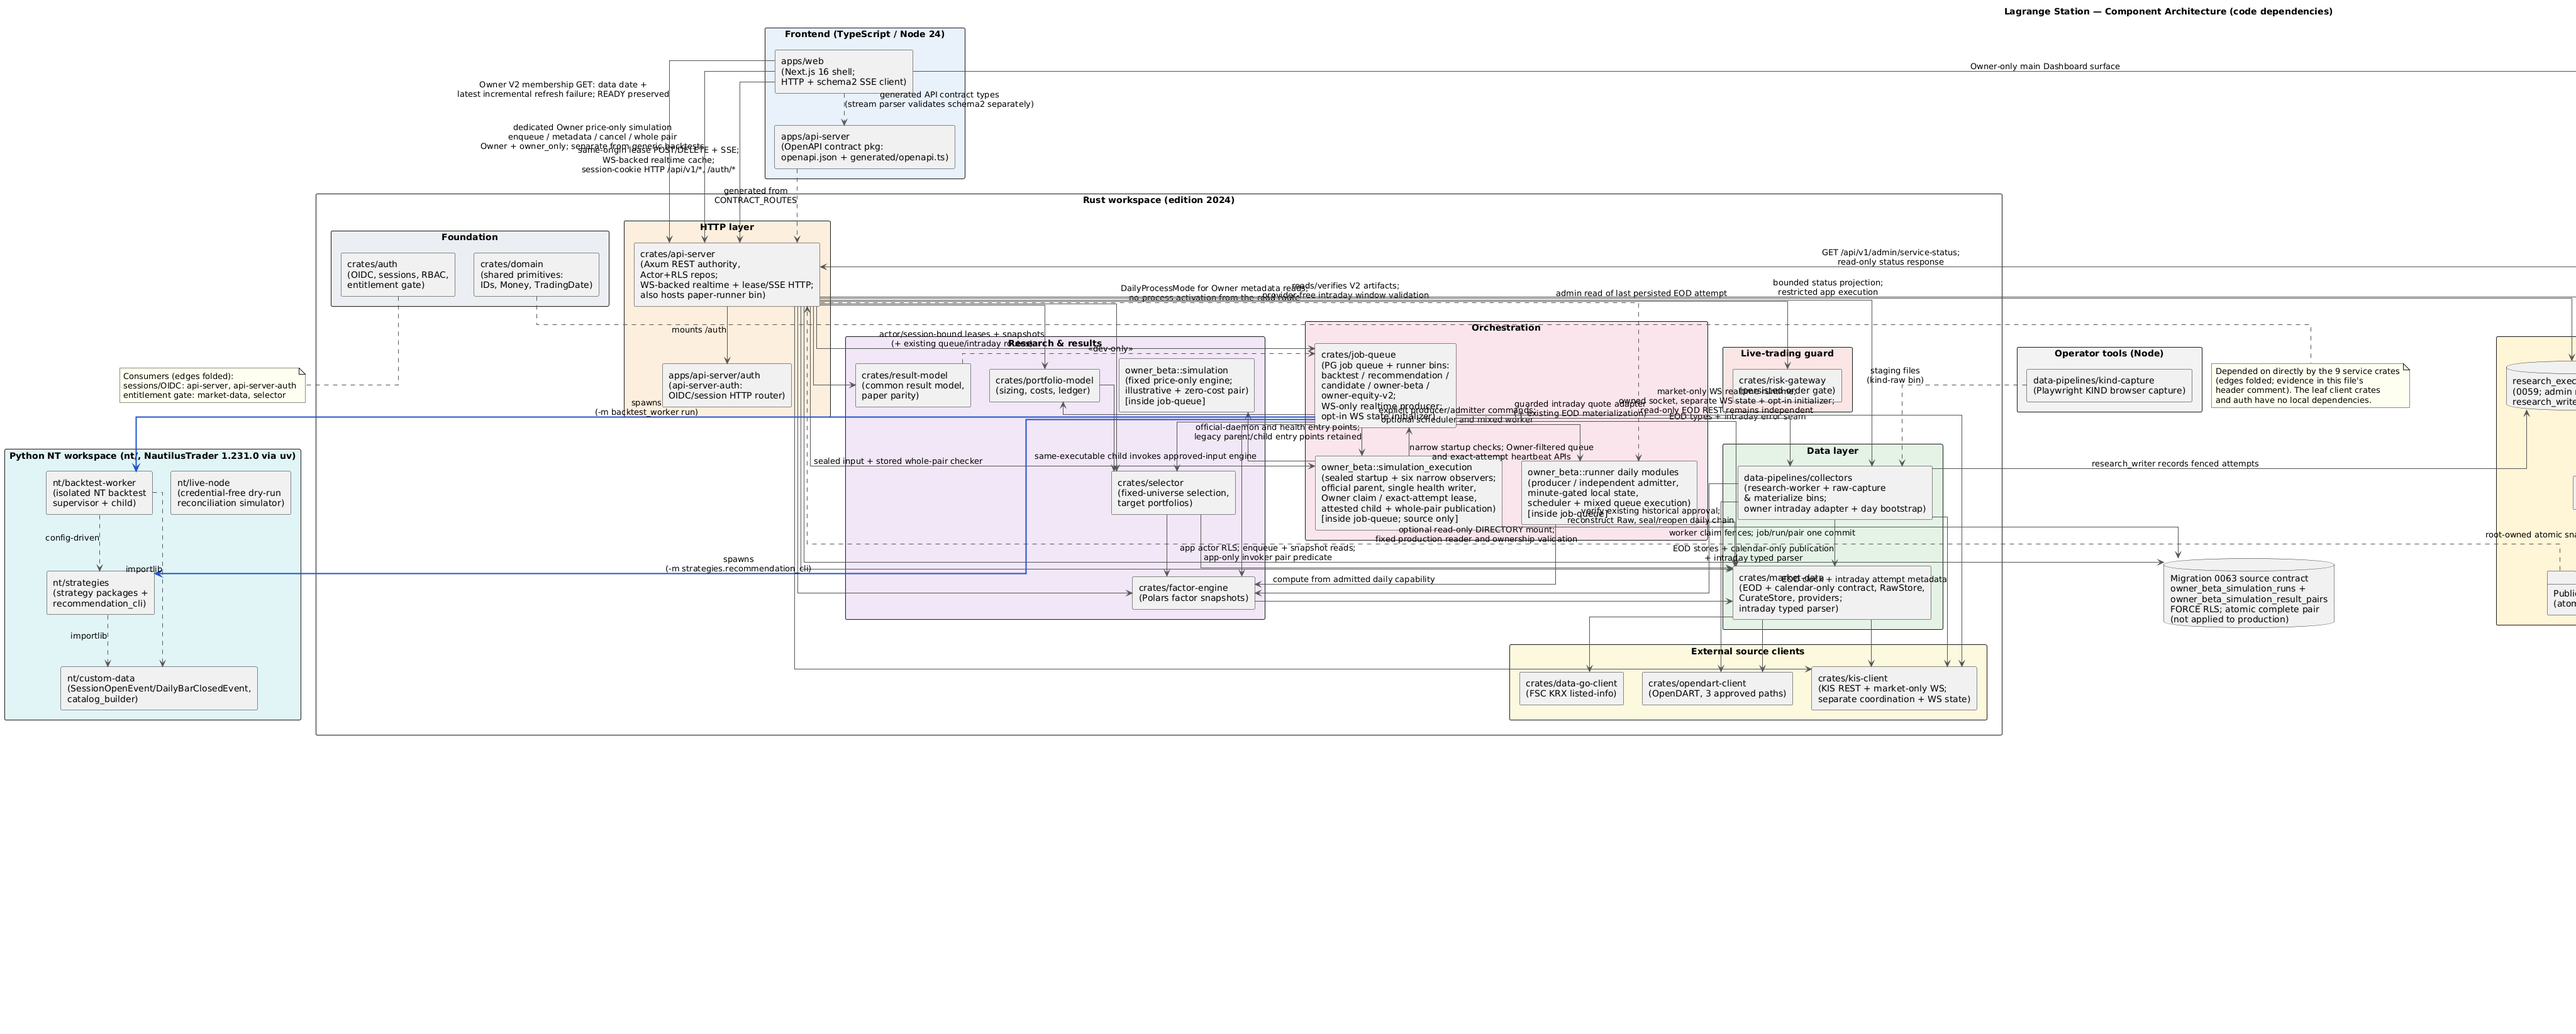
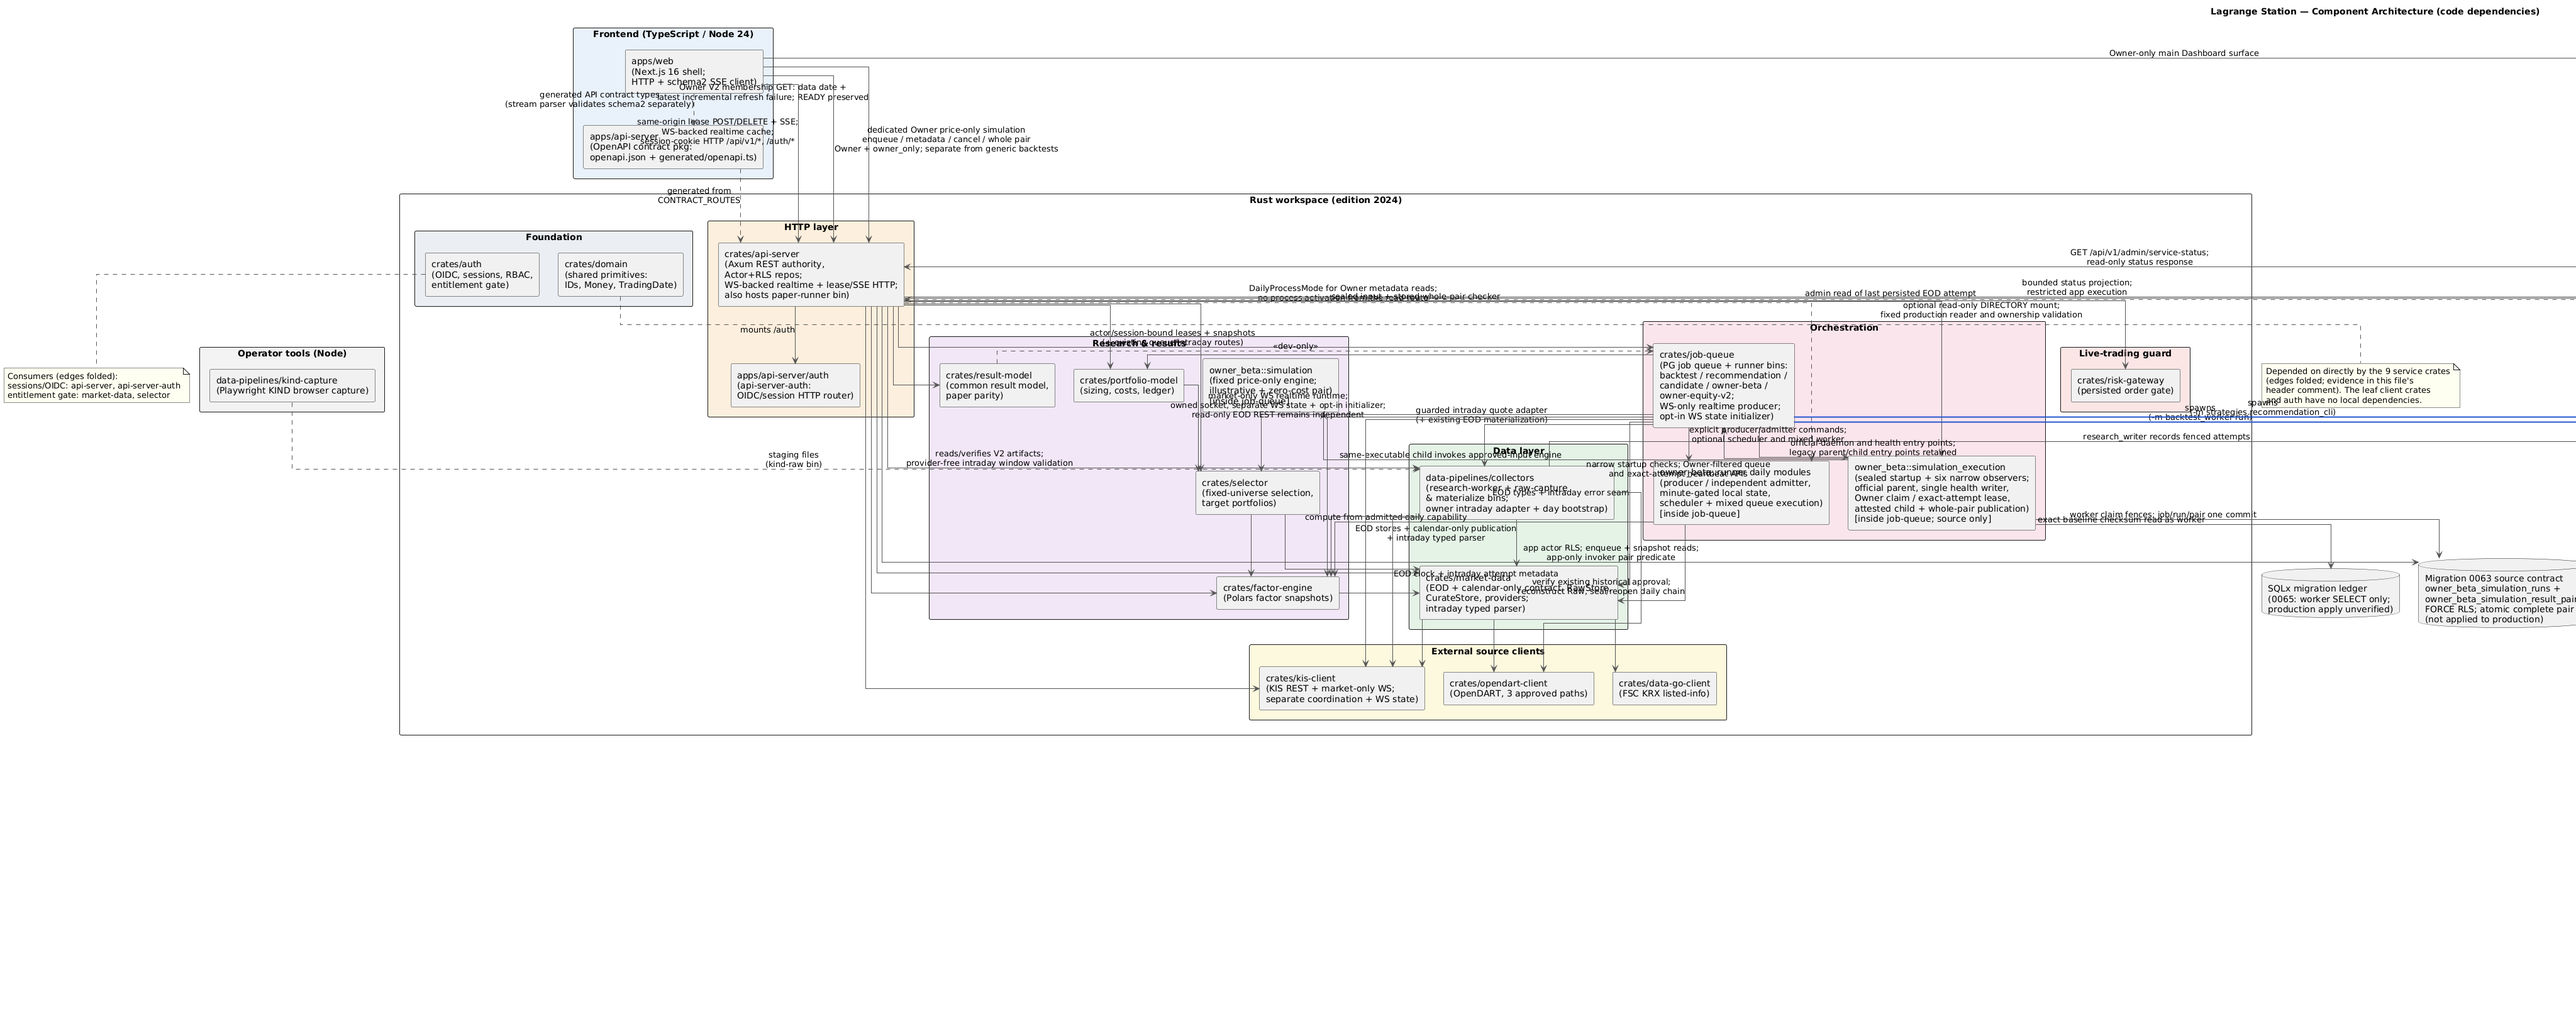
Grant simulation worker read-only migration ledger access

diff --git a/crates/job-queue/src/owner_beta/simulation_execution/process_migrations/tests.rs b/crates/job-queue/src/owner_beta/simulation_execution/process_migrations/tests.rs
@@ -21,6 +21,15 @@ async fn r4_migration_ledger_pg_projection() {
         .connect(&db.role_url("worker"))
         .await
         .expect("connect directly as worker to disposable PostgreSQL");
+    let worker_ledger_access: (bool, bool, bool) = sqlx::query_as(
+        "SELECT pg_catalog.has_table_privilege(current_user, 'public._sqlx_migrations', 'SELECT'), \
+                pg_catalog.has_table_privilege(current_user, 'public._sqlx_migrations', 'INSERT'), \
+                pg_catalog.has_table_privilege(current_user, 'public._sqlx_migrations', 'UPDATE')",
+    )
+    .fetch_one(&pool)
+    .await
+    .expect("read worker migration ledger privileges");
+    assert_eq!(worker_ledger_access, (true, false, false));
     let worker_oid: i64 = sqlx::query_scalar(
         "SELECT oid::pg_catalog.int8 FROM pg_catalog.pg_roles WHERE rolname = 'worker'",
     )
@@ -621,11 +630,11 @@ fn test_context_evidence() -> ContextEvidence {
 #[test]
 fn accepted_baseline_is_finite_raw_and_fingerprint_pinned() {
     let baseline = validate_embedded_baseline().unwrap();
-    assert_eq!(BASELINE.len(), 64);
+    assert_eq!(BASELINE.len(), 65);
     assert_eq!(BASELINE[0].version, 1);
-    assert_eq!(BASELINE[63].version, 64);
+    assert_eq!(BASELINE[64].version, 65);
     assert_eq!(baseline.fingerprint_text, EXPECTED_FINGERPRINT);
-    assert_eq!(POLICY_ID, "r4-simulation-ledger-baseline-64-v1");
+    assert_eq!(POLICY_ID, "r4-simulation-ledger-baseline-65-v1");
     assert!(
         BASELINE
             .iter()
@@ -823,7 +832,7 @@ fn successful_observation_has_exact_order_and_retains_checked_identity() {
     assert_eq!(observation.public_schema_oid(), TEST_SCHEMA_OID);
     assert_eq!(observation.migration_owner_oid(), TEST_OWNER_OID);
     assert_eq!(observation.ledger_oid(), TEST_LEDGER_OID);
-    assert_eq!(observation.ledger_row_count(), 64);
+    assert_eq!(observation.ledger_row_count(), 65);
     assert_eq!(
         observation.ordered_ledger_digest(),
         expected_ledger_digest()
@@ -837,7 +846,7 @@ fn expected_ledger_digest() -> String {
     digest.update([0u8]);
     digest.update(baseline.fingerprint);
     digest.update(TEST_LEDGER_OID.to_be_bytes());
-    digest.update(64u64.to_be_bytes());
+    digest.update(65u64.to_be_bytes());
     for entry in BASELINE.iter() {
         let (_, checksum) = validate_expected_entry(entry, entry.bytes).unwrap();
         digest.update(entry.version.to_be_bytes());
@@ -1632,7 +1641,7 @@ fn ledger_requires_exact_order_success_tableoid_and_raw_checksum() {
         baseline,
     )
     .unwrap();
-    assert_eq!(valid.row_count, 64);
+    assert_eq!(valid.row_count, 65);
     assert!(valid.digest_text.starts_with("sha256:"));
 
     let mut missing = ledger_rows();
@@ -1719,9 +1728,9 @@ fn ledger_requires_exact_order_success_tableoid_and_raw_checksum() {
 }
 
 #[test]
-fn ledger_unknown_65_is_distinguished_from_duplicate_65() {
+fn ledger_unknown_66_is_distinguished_from_duplicate_row() {
     let mut unknown = ledger_rows();
-    unknown.push(ledger_row_with(65, from_hex(BASELINE[63].sha384_hex)));
+    unknown.push(ledger_row_with(66, from_hex(BASELINE[64].sha384_hex)));
     assert!(matches!(
         validate_ledger(
             decoded_ledger_rows(unknown),
@@ -1744,7 +1753,7 @@ fn ledger_unknown_65_is_distinguished_from_duplicate_65() {
 
     let mut fake = FakeTransport::new(successful_steps());
     let mut query_rows = ledger_rows();
-    query_rows.push(ledger_row_with(65, from_hex(BASELINE[63].sha384_hex)));
+    query_rows.push(ledger_row_with(66, from_hex(BASELINE[64].sha384_hex)));
     fake.set_query_rows(Statement::Ledger, query_rows);
     let canceled = AtomicBool::new(false);
     assert!(matches!(

diff --git a/crates/job-queue/src/owner_beta/simulation_execution/process_migrations.rs b/crates/job-queue/src/owner_beta/simulation_execution/process_migrations.rs
@@ -13,12 +13,12 @@ use sqlx::{PgConnection, PgPool, Postgres, Row, pool::PoolConnection, postgres::
 
 use super::SimulationProcessConfig;
 
-const POLICY_ID: &str = "r4-simulation-ledger-baseline-64-v1";
+const POLICY_ID: &str = "r4-simulation-ledger-baseline-65-v1";
 const READER_FLOOR: u64 = 63;
-const REQUIRED_EXTENSION: u64 = 64;
-const EXPECTED_ROW_COUNT: usize = 64;
+const REQUIRED_EXTENSION: u64 = 65;
+const EXPECTED_ROW_COUNT: usize = 65;
 const EXPECTED_FINGERPRINT: &str =
-    "sha256:a4886f4c56091690702790d1defacf3b1a388c718a94c026822e02a4b580d91f";
+    "sha256:2364eb5a8bd35632bea4c09cd4798c7d6baaf2c1661c30b085e0e0486b5a5e9d";
 const WORKER_ROLE: &str = "worker";
 const MIGRATION_OWNER_ROLE: &str = "migration_owner";
 const PUBLIC_SCHEMA: &str = "public";
@@ -32,8 +32,8 @@ const COLUMN_FETCH_LIMIT: usize = 7;
 const PRIMARY_KEY_FETCH_LIMIT: usize = 2;
 const RAW_ACL_FETCH_LIMIT: usize = 65;
 const RAW_ACL_ACCEPT_LIMIT: usize = 64;
-const LEDGER_FETCH_LIMIT: usize = 65;
-const LEDGER_ACCEPT_LIMIT: usize = 64;
+const LEDGER_FETCH_LIMIT: usize = 66;
+const LEDGER_ACCEPT_LIMIT: usize = 65;
 
 const BEGIN_SQL: &str = "BEGIN ISOLATION LEVEL REPEATABLE READ READ ONLY";
 const SETUP_SQL: &str = "\
@@ -401,7 +401,7 @@ SELECT ledger.tableoid::pg_catalog.int8 AS ledger_oid,
        END AS checksum
   FROM public._sqlx_migrations AS ledger
  ORDER BY ledger.version
- LIMIT 65
+ LIMIT 66
 "#;
 
 struct ExpectedMigration {
@@ -973,6 +973,16 @@ const BASELINE: [ExpectedMigration; EXPECTED_ROW_COUNT] = [
[2 lines of base64/hex data omitted]
         bytes: include_bytes!("../../../../../migrations/0064_owner_beta_simulation_v2.up.sql"),
+    },
+    ExpectedMigration {
+        version: 65,
+        path: "migrations/0065_owner_beta_simulation_ledger_read.up.sql",
+        byte_len: 213,
[2 lines of base64/hex data omitted]
+        bytes: include_bytes!(
+            "../../../../../migrations/0065_owner_beta_simulation_ledger_read.up.sql"
+        ),
     },
 ];
 

diff --git a/docs/ROADMAP.md b/docs/ROADMAP.md
@@ -12,7 +12,7 @@
 | 현재 실행 우선순위 | R4-06 DOING — 검증 후보 `9327802`의 전체 hosted CI `40576506250`(필수 집계 포함)와 동일 SHA Research smoke `40577203797`가 성공했다. 격리 검증 이후 실제 입력·권리·운영·Owner 인수는 남아 있다. |
 | 상세 실행 계획 | [R4 잔여 통합 계획](superpowers/plans/2026-10-27-r4-remaining-integration.md)이 이후 실행 순서다. [기존 구현 계획](superpowers/plans/2026-10-26-r4-baseline-expansion-implementation.md)은 계약·증거 이력을 보존한다. |
 | main 통합 | `1286e73`과 R2/R3·R4 인계 `7a396d7`의 병합 `bb906d3` 및 원격 main 일치를 확인했다. 원래 CI39976478432 attempt1은 Web E2E 단일 실패로 FAILURE, smoke39976478535 attempt1은 SUCCESS. G1 진단 변경을 수용했고 후속 후보에서 assertion 원인을 회수한다. [병합 기록](reviews/2026-10-24-main-r2-r4-integration.md)·[후속 검증](reviews/2026-10-24-r4-execution.md). |
-| 다음 착수 항목 | trigger·ACL 실제 PG 회귀는 통과했다. routine·RLS·configured rights 회귀를 원장 권한 결정과 독립적으로 실행한다. migration ledger는 worker `SELECT` 계약과 G0의 새 grant 금지가 충돌해 해당 권한 또는 검증 설계 결정을 기다린다. 실제 시뮬레이션 재고·권리·설치·drain·rollback·백업/복원 및 Owner 사용은 별도 G3 인수로 진행한다. |
+| 다음 착수 항목 | trigger·ACL 실제 PG 회귀는 통과했다. Owner가 원장에 한정한 worker `SELECT`를 승인해 migration 0065와 원장 기준선65를 작성했다. routine·RLS·configured rights 및 원장 회귀를 새 후보의 실제 PostgreSQL에서 검증한다. 실제 시뮬레이션 재고·권리·설치·drain·rollback·백업/복원 및 Owner 사용은 별도 G3 인수로 진행한다. |
 | 진행 상태 | R1-01~09 및 전체 R1 DONE. C3 `862fa95`의 CI·smoke, 실제 12개 이미지·V2 manifest, 기존 Owner V2 복귀 검증 완료. main `b0a2579`의 기존 CI·smoke도 최종 성공 회수 |
 | 판단이 필요한 항목 | R2 U2 계약은 2026-10-14 채택됨. G4와 기존 배포·백업/복원 인수는 보존한다. 2026-10-23 Owner가 비긴급 검증의 후속 이슈화를 채택했다. Wave166 정정으로 D-06 및005930 가격 충돌 조사는 유예 유지하며 독립 개발을 계속한다. D-07도 유예이며 입력 승인·Daily 활성화·실제3거래일·R2/R3 FINAL은 미완료다. R4-01의 `owner-beta-price-only-simulation-v1-draft-1` 제안/설명 뒤 Owner가 “진행해”라고 지시했고, 후속 지시로 기록 저장 후 다른 세션에서 착수한다. 원본·후속 결정은 인계에 고정했다. |
 
@@ -2827,3 +2827,4 @@ Wave134 검증(2026-10-21 KST): 청약일 보정의37개 재구성 테스트(신
 - 2026-10-28 R4-06: `3db753f` CI `40631147952`에서 format·Python·policy·Clippy·Web은 SUCCESS, trigger 실제 PG 회귀는 `ForwardTriggers: Database`로 다시 FAILED했다. PostgreSQL 공식 `pg_trigger` 열 목록에 쿼리의 `tgnattr`이 없음을 확인해 `tgattr` 배열 cardinality로 `update_attribute_count`를 계산하도록 보정했다. 이 실패를 포함한 이전 CI, 뒤에 대기한 `cd9ba21` CI `40632398579`, 이전 SHA smoke `40631187815`에 취소를 요청했다. 완료된 항목과 미완료 항목을 구분하며, 새 수정본의 PG·전체 CI·동일 SHA smoke와 G3/Owner 인수는 OPEN이다.
 - 2026-10-28 R4-06: `56f4167` CI `40632582660`에서 format·Python은 SUCCESS, Clippy는 새 feature-gated PG 회귀 여섯 곳이 같은 test helper 파일을 각각 모듈로 읽어 `clippy::duplicate_mod`로 FAILED했다. 공통 helper를 부모 모듈에서 한 번만 읽도록 보정하고 Rustfmt·diff 공백 검사를 통과했다. 같은 CI의 PG·정책·R4 빌드 등과 smoke `40632592636`은 이 기록 시점에 진행 중이다. 보정의 hosted 인수와 실제 입력·운영·Owner 인수는 OPEN이다.
 - 2026-10-28 R4-06: `56f4167` CI의 실제 PostgreSQL에서 trigger 13 projection과 ACL은 PASS, migration ledger의 `Ledger` 읽기는 FAILED했다. 현재 소스는 worker의 원장 SELECT를 요구하나 기존 migration에는 그 grant가 없고, 채택된 G0에는 새 grant 금지가 명시돼 있다. 정확한 원장 읽기 권한 추가 또는 원장 검증 설계 변경의 결정을 요청했다. 권한 변경은 아직 후보로만 준비하고 원격에 반영하지 않았다. 독립적인 routine·RLS·configured rights를 먼저 실행하도록 DB harness 순서를 조정했다. Clippy 중복 모듈 보정본 `d3a51ef`의 대기 CI와 그 smoke는 이 권한 충돌을 해결하지 못하므로 취소를 요청했다. 실제 입력·운영·Owner 인수는 OPEN이다.
+- 2026-10-28 R4-06: Owner가 기존 G0의 새 grant 금지에 대해 `public._sqlx_migrations`의 worker 읽기 전용 `SELECT`만 명시적으로 허용했다. migration 0065의 UP/DOWN에 GRANT/REVOKE를 한정하고, 소스 원장 기준선·SHA-256/SHA-384·65행 fingerprint·66행 탐지 한도와 실제 worker의 SELECT=true/INSERT=false/UPDATE=false 검증을 갱신했다. 이전 64행 fingerprint를 같은 정적 계산으로 재현한 뒤 새 값으로 확장했다. 이 변경의 실제 DB 적용·회귀는 아직 NOT RUN이며 실제 입력·운영·Owner 인수는 계속 OPEN이다.

diff --git a/docs/superpowers/plans/2026-10-27-r4-integration-interface.md b/docs/superpowers/plans/2026-10-27-r4-integration-interface.md
@@ -6,6 +6,14 @@ This closes the finite SOURCE dispatch interface for WP-5C3E and WP-5C4 under th
 It authorizes SOURCE implementation, not execution, installation, new provider access or Owner acceptance.
 Existing C0/D0/D2A-K evidence is reused; original reports and controls remain immutable.
 
+**2026-10-28 Owner exception:** Actual SQLx/PostgreSQL validation showed the
+worker could not read the migration ledger, while the adopted startup observer
+requires exact ledger bytes and its own ACL proof. The Owner approved only
+`GRANT SELECT ON TABLE public._sqlx_migrations TO worker`. Migration 0065
+provides that read permission and its down migration revokes it. The baseline
+now requires migrations 1–65; the reader schema floor remains 63. No write,
+administrator, migration-owner, or provider permission follows from this change.
+
 ## Shared executable and launcher ABI
 
 | Boundary | Adopted contract | Evidence / owner |
@@ -15,7 +23,7 @@ Existing C0/D0/D2A-K evidence is reused; original reports and controls remain im
 | Health | Existing `--health` with exactly the same three pin options. Health performs only checked config and process health reads; never DB, writer, startup, claim or restart. Exit0 healthy, invalid arguments2, unsupported7, rejected8 remain. | Binary health implementation; C4 Docker healthcheck uses this argv. |
 | Official exits | New Official mode: normal fully confirmed drain0; parser2; unsupported7; startup/parent/cleanup/completion rejection9 with fixed value-free diagnostic. Signal alone is not proof of clean exit. Legacy Once/Daemon/Child exit behavior unchanged. | E implements; C4 requires clean process exit plus independent settlement. |
 | Fixed paths / identity | Retain checked config's exact container paths and worker-id; host historical_root is only the RO bind source. User10001:10001; health records directory existing required tmpfs/0700 policy. No arbitrary writable input or test-root production switch. | process_config.rs, process_read/write.rs; C1/C2. |
-| DB credentials | Official production uses existing component DB options with db_worker and password file. No direct URL, plaintext password, administrator/migration role or new grant. C4 mounts service-specific worker secret; never copies secret values into args/config/report. | Binary database_options, existing secret provisioner. |
+| DB credentials | Official production uses existing component DB options with db_worker and password file. No direct URL, plaintext password, administrator/migration role or grant except the Owner-approved read-only `SELECT` on `public._sqlx_migrations` to `worker` in migration 0065. C4 mounts service-specific worker secret; never copies secret values into args/config/report. | Binary database_options, existing secret provisioner; migration 0065. |
 
 C4 keeps base service disabled/build-only; only the explicit simulation overlay enables
 owner_only. It must inspect actual image, config, receipt labels, singleton/generation,
